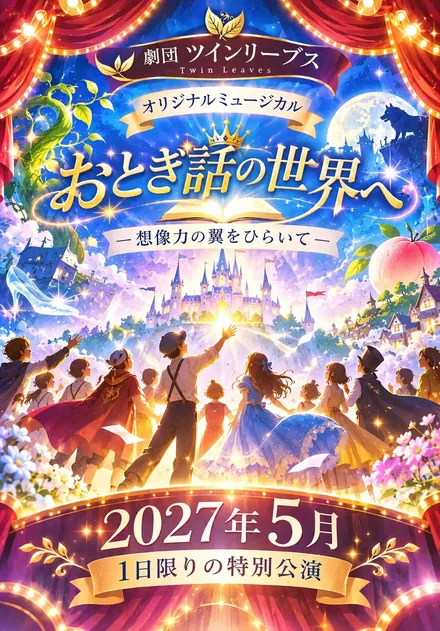
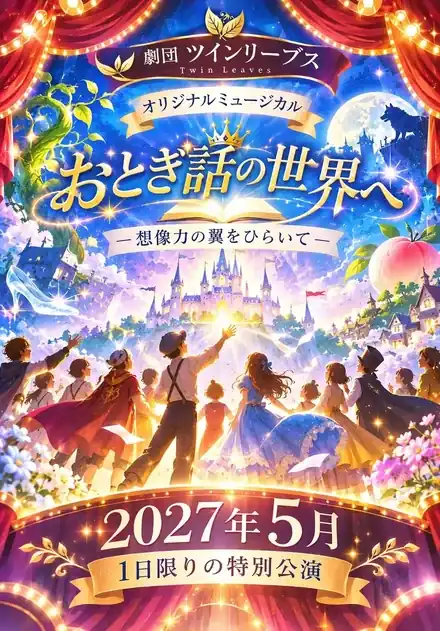
R34: ラウンド13クイックウィン S1〜S5＋#6 一覧チェックインをQR受付と統一（備考例に親子室／文字サイズ切替の高さ40px／大サイズで決定バーを縦積みにしゾーン名の欠けを解消／QR準備中は予約番号＋案内を先行表示／ヒーローWebPを51.6KBに圧縮／未割当ゾーン予約の一覧チェックインは席を詰めてから受付し、詰められない場合は受付せず手動指定へ誘導）

diff --git a/src/lib/cloudStore.tsx b/src/lib/cloudStore.tsx
@@ -19,8 +19,14 @@ import {
   type NewReservationInput,
   type Reservation,
 } from './logic'
-import { assignZoneSeats, manualAssignmentError, type ZoneId } from './zones'
+import {
+  assignZoneSeats,
+  manualAssignmentError,
+  planListCheckIn,
+  type ZoneId,
+} from './zones'
 import { createCloudApi, type CloudApi } from './cloud'
+import { isQrToken } from './qrToken'
 import { currentSiteUrl } from './share'
 import {
   StoreContext,
@@ -319,6 +325,72 @@ export function CloudStoreProvider({ children }: { children: ReactNode }) {
       )
     }
 
+    /**
+     * R34（ラウンド13・R13-1）: 受付一覧の「来場チェックイン」から未割当の
+     * ゾーン予約を受け付ける。QR 受付と揃え、席が決まるまで受付しない。
+     * トークンのある予約は QR と同じ staff_check_in の2段階（NEEDS_SEATS →
+     * 詰めて再送）を使い、トークンのない旧予約は staff_assign_seats で
+     * 詰めた席を確定してから来場にする。どちらも席を用意できなければ
+     * 例外にし、来場済みにはしない（理由と手動指定への誘導を伝える）。
+     */
+    const checkInUnassignedFromList = async (
+      target: Reservation,
+    ): Promise<void> => {
+      const cloudId = target.cloudId
+      if (!cloudId) throw new Error('予約が見つかりません')
+      const token = target.qrToken
+      if (isQrToken(token)) {
+        try {
+          let outcome = await api().staffCheckIn(staffPasscode(), token, null)
+          if (outcome.result === 'NEEDS_SEATS') {
+            outcome = await checkInAssigningSeats(token, outcome.reservation)
+          }
+          if (
+            outcome.result === 'OK' ||
+            outcome.result === 'ALREADY_CHECKED_IN'
+          ) {
+            await refreshAll()
+            return
+          }
+          if (outcome.result === 'CANCELLED') {
+            throw new Error('この予約はキャンセル済みのため、受付できません')
+          }
+          throw new Error('受付できませんでした。もう一度お試しください')
+        } catch (e) {
+          // 席を用意できなかった場合は、一覧向けの案内（手動指定への誘導）に差し替える
+          if (
+            e instanceof Error &&
+            e.message.includes('席を自動で割り当てできませんでした')
+          ) {
+            const plan = planListCheckIn(dataRef.current, target)
+            throw new Error(
+              plan.kind === 'blocked'
+                ? plan.reason
+                : '席を自動で割り当てできませんでした。カードの「席を指定する」から手動で席を選んでください',
+            )
+          }
+          // R7 の RPC が未適用の DB では、下の割当＋更新の代替経路に落とす
+          if (
+            !(e instanceof Error && e.message.includes('migration_sakura_r7'))
+          ) {
+            throw e
+          }
+        }
+      }
+      // トークンのない予約（QR の仕組みより前）: 詰めた席を確定してから来場にする
+      const plan = planListCheckIn(dataRef.current, target)
+      if (plan.kind === 'blocked') throw new Error(plan.reason)
+      if (plan.kind === 'assign') {
+        await api().staffAssignSeats(staffPasscode(), cloudId, plan.seatIds)
+      }
+      await api().staffUpdateReservation(staffPasscode(), cloudId, {
+        paid: target.paid,
+        checkedIn: true,
+        status: 'active',
+      })
+      await refreshAll()
+    }
+
     return {
       data,
       mode: 'cloud',
@@ -423,6 +495,13 @@ export function CloudStoreProvider({ children }: { children: ReactNode }) {
       setCheckedIn: async (reservationId, value) => {
         const target = dataRef.current.reservations.find((r) => r.id === reservationId)
         if (!target?.cloudId) throw new Error('予約が見つかりません')
+        // R34（ラウンド13・R13-1）: 未割当ゾーン予約の来場チェックインは
+        // QR 受付と揃える（席が決まるまで受付しない）。席のある予約・
+        // ゾーン外の予約・来場の取り消しは従来どおり
+        if (value && !target.cancelled && isUnassignedZoneBooking(target)) {
+          await checkInUnassignedFromList(target)
+          return
+        }
         await api().staffUpdateReservation(staffPasscode(), target.cloudId, {
           paid: target.paid,
           checkedIn: value,

diff --git a/src/lib/zones.test.ts b/src/lib/zones.test.ts
@@ -5,7 +5,15 @@ import {
   WHEELCHAIR_SEATS,
   seatById,
 } from '../data/seats'
-import { emptyData, setBlockedForSeats, type AppData } from './logic'
+import {
+  assignSeatsToReservation,
+  createReservation,
+  createZoneReservation,
+  emptyData,
+  setBlockedForSeats,
+  type AppData,
+  type Reservation,
+} from './logic'
 import {
   LOW_STOCK_REMAINING,
   ZONE_IDS,
@@ -13,6 +21,7 @@ import {
   assignZoneSeats,
   countAvailableInZone,
   describeSelection,
+  planListCheckIn,
   resolveZoneTap,
   summarizeSeatIds,
   totalAvailableSeats,
@@ -414,5 +423,86 @@ describe('describeSelection / summarizeSeatIds', () => {
     expect(summarizeSeatIds(['1F-7-12', '1F-8-12'])).toBe(
       '1階 7列 12番、1階 8列 12番',
     )
+  })
+})
+
+describe('planListCheckIn（一覧チェックインの席割当計画・R34）', () => {
+  const zoneBooking = (
+    data: AppData,
+    zone: ZoneId,
+    typeIds: string[],
+  ): Reservation =>
+    createZoneReservation(data, {
+      zone,
+      typeIds,
+      name: '検証 太郎',
+      phone: '09000000000',
+      note: '',
+    }).reservation
+
+  it('未割当のゾーン予約（空きあり）→ 人数分の席を詰める assign', () => {
+    const data = emptyData()
+    const res = zoneBooking(data, 'B', ['adult', 'adult'])
+    const plan = planListCheckIn(data, res)
+    expect(plan.kind).toBe('assign')
+    if (plan.kind === 'assign') {
+      expect(plan.seatIds).toHaveLength(2)
+      expect(
+        plan.seatIds.every((id) => zoneOfSeat(seatById(id)) === 'B'),
+      ).toBe(true)
+    }
+  })
+
+  it('未割当のゾーン予約（ゾーン満席）→ blocked で、手動指定への誘導を含む', () => {
+    const data = blockSeats(emptyData(), [...ZONE_SEAT_IDS.I])
+    const res = zoneBooking(data, 'I', ['adult', 'adult'])
+    const plan = planListCheckIn(data, res)
+    expect(plan.kind).toBe('blocked')
+    if (plan.kind === 'blocked') {
+      expect(plan.reason).toContain('受付はしていません')
+      expect(plan.reason).toContain('席を指定する')
+    }
+  })
+
+  it('未割当のゾーン予約（残席が人数未満）→ blocked', () => {
+    // ゾーンIは14席。1席だけ残して2名は割り当てできない
+    const free = ZONE_SEAT_IDS.I[0]
+    const data = blockSeats(
+      emptyData(),
+      ZONE_SEAT_IDS.I.filter((id) => id !== free),
+    )
+    const res = zoneBooking(data, 'I', ['adult', 'adult'])
+    expect(planListCheckIn(data, res).kind).toBe('blocked')
+  })
+
+  it('席が割り当て済みのゾーン予約 → plain（従来どおり）', () => {
+    const created = createZoneReservation(emptyData(), {
+      zone: 'B',
+      typeIds: ['adult', 'adult'],
+      name: '検証 太郎',
+      phone: '09000000000',
+      note: '',
+    })
+    const base = created.data
+    const res = created.reservation
+    const assignment = assignZoneSeats(base, 'B', 2)
+    expect(assignment).not.toBeNull()
+    const withSeats = assignSeatsToReservation(base, res.id, assignment!.seatIds)
+    const seated = withSeats.reservations.find((r) => r.id === res.id)!
+    expect(seated.seatIds).toHaveLength(2)
+    expect(planListCheckIn(withSeats, seated)).toEqual({ kind: 'plain' })
+  })
+
+  it('席指定の通常予約 → plain', () => {
+    const { reservation } = createReservation(emptyData(), {
+      seats: [{ seatId: '1F-5-12', typeId: 'adult' }],
+      name: '検証 太郎',
+      phone: '09000000000',
+      note: '',
+      source: 'online',
+    })
+    expect(planListCheckIn(emptyData(), reservation)).toEqual({
+      kind: 'plain',
+    })
   })
 })

diff --git a/src/lib/zones.ts b/src/lib/zones.ts
@@ -40,6 +40,7 @@ import {
 } from '../data/seats'
 import {
   formatSeatList,
+  isUnassignedZoneBooking,
   isZoneBooking,
   seatStatus,
   type AppData,
@@ -553,6 +554,45 @@ export function manualAssignmentError(
     }
   }
   return null
+}
+
+/* ---------------- 一覧チェックインの席割当計画（R34・ラウンド13 R13-1） ---------------- */
+
+/**
+ * 受付一覧の「来場チェックイン」が、対象の予約をどう扱うべきかの判定。
+ * QR 受付（R17）は未割当のゾーン予約を「席が決まるまで受付しない」のに、
+ * 一覧のトグルは席なしのまま来場済みにできてしまい、非対称だった。
+ * 両ストア（ローカル/クラウド）はこの計画に従って動きを揃える:
+ * - plain: 従来どおりそのまま来場にする（席あり・ゾーン外の予約）
+ * - assign: 詰めた席を割り当ててから来場にする（未割当のゾーン予約）
+ * - blocked: 席を用意できないため来場にしない。reason はスタッフ向けに
+ *   「受付していないこと」と手動指定（カードの「席を指定する」）への
+ *   誘導まで含めた文面
+ * キャンセル済みの予約は対象外（呼び出し側が先に除外する）。
+ */
+export type ListCheckInPlan =
+  | { kind: 'plain' }
+  | { kind: 'assign'; seatIds: string[] }
+  | { kind: 'blocked'; reason: string }
+
+export function planListCheckIn(
+  data: AppData,
+  reservation: Reservation,
+): ListCheckInPlan {
+  if (!isUnassignedZoneBooking(reservation)) return { kind: 'plain' }
+  const assignment = assignZoneSeats(
+    data,
+    reservation.zone as ZoneId,
+    reservation.items.length,
+  )
+  if (!assignment) {
+    return {
+      kind: 'blocked',
+      reason:
+        '席を自動で割り当てできませんでした（このゾーンに割り当てられる席がありません）。受付はしていません。カードの「席を指定する」から手動で席を選んでください',
+    }
+  }
+  return { kind: 'assign', seatIds: assignment.seatIds }
 }
 
 /* ---------------- 予約の座席表示（R12） ---------------- */

diff --git a/src/index.css b/src/index.css
@@ -4403,7 +4403,9 @@ button.sseat-cell:active {
   font-weight: 700;
   padding: 4px 16px;
   border-radius: 999px;
-  min-height: 30px;
+  /* R34・R13-5: この切り替えを最も必要とする人（低視力・高齢）のタップ
+     目標が最小級だったため、高さを 40px 以上に確保する */
+  min-height: 40px;
 }
 
 .textsize-seg button[aria-pressed='true'] {
@@ -4472,6 +4474,27 @@ button.sseat-cell:active {
 .app-shell[data-textsize='large'] .zdb-zone { font-size: 17.5px; }
 .app-shell[data-textsize='large'] .zdb-meta { font-size: 14px; }
 .app-shell[data-textsize='large'] .zdb-btn { font-size: 16.5px; }
+/* R34・R13-2: 「大」では横並びだと情報側が潰れてゾーン名の塊が途中で
+   切れた。狭幅（380px以下）と同じくバーを縦積みにし、ゾーン名を
+   削らずに読める幅を確保する（座席表の幾何には触れない） */
+.app-shell[data-textsize='large'] .zone-decision-bar {
+  flex-direction: column;
+  align-items: stretch;
+  gap: 8px;
+}
+.app-shell[data-textsize='large'] .zdb-actions {
+  display: flex;
+}
+.app-shell[data-textsize='large'] .zdb-btn {
+  flex: 1;
+}
+/* 縦積みで高くなったバーに、ページ末尾と案内が隠れないよう追随させる */
+.app-shell[data-textsize='large'] .book-flow.has-floating-bar {
+  padding-bottom: 208px;
+}
+.app-shell[data-textsize='large'] .zone-bottom-notice.has-bar {
+  bottom: calc(196px + env(safe-area-inset-bottom, 0px));
+}
 .app-shell[data-textsize='large'] .zone-bottom-notice { font-size: 16px; }
 .app-shell[data-textsize='large'] .detail-list dt { font-size: 16px; }
 .app-shell[data-textsize='large'] .detail-total { font-size: 19.5px; }

diff --git a/src/lib/store.tsx b/src/lib/store.tsx
@@ -38,6 +38,7 @@ import {
 import {
   assignZoneSeats,
   manualAssignmentError,
+  planListCheckIn,
   zoneAvailability,
   type ZoneId,
 } from './zones'
@@ -393,6 +394,25 @@ function LocalStoreProvider({ children }: { children: ReactNode }) {
         return result
       },
       setCheckedIn: async (reservationId, value) => {
+        // R34（ラウンド13・R13-1）: 一覧からの来場チェックインも QR 受付と
+        // 揃え、未割当のゾーン予約は席を詰めてから来場にする。席を用意
+        // できない場合は例外にして、来場済みにはしない（理由はトーストで
+        // スタッフに伝わり、手動指定へ誘導する）
+        const target = dataRef.current.reservations.find((r) => r.id === reservationId)
+        if (value && target && !target.cancelled) {
+          const plan = planListCheckIn(dataRef.current, target)
+          if (plan.kind === 'blocked') throw new Error(plan.reason)
+          if (plan.kind === 'assign') {
+            mutate((prev) =>
+              setCheckedIn(
+                assignSeatsToReservation(prev, reservationId, plan.seatIds),
+                reservationId,
+                true,
+              ),
+            )
+            return
+          }
+        }
         mutate((prev) => setCheckedIn(prev, reservationId, value))
       },
       checkInByToken: async (token) => {

diff --git a/src/components/ReservationQr.tsx b/src/components/ReservationQr.tsx
@@ -82,7 +82,17 @@ export default function ReservationQr({
           height={168}
         />
       ) : (
-        <p className="muted small reservation-qr-loading">QRコードを準備中…</p>
+        /* R34・R13-3: 生成待ちの間も予約番号を先に大きく見せ、「数秒で
+           表示される」ことを伝える（番号さえ分かれば受付できるため、
+           素っ気ない「準備中…」だけを見せ続けない） */
+        <div className="reservation-qr-loading">
+          <p className="qr-code-fallback">
+            予約番号 <strong>{code}</strong>
+          </p>
+          <p className="muted small">
+            QRコードを準備中です（数秒で表示されます。そのままお待ちください）
+          </p>
+        </div>
       )}
       <p className="qr-caption">
         {checkedInCaption ?? '当日、受付でこのQRコードを見せてください'}

diff --git a/src/components/AudienceBook.tsx b/src/components/AudienceBook.tsx
@@ -876,7 +876,7 @@ export default function AudienceBook({
                 value={note}
                 onChange={(e) => setNote(e.target.value)}
                 rows={3}
-                placeholder="例：車椅子席を利用します、車椅子席の付き添いです、など"
+                placeholder="例：車椅子席を利用します、親子室を利用します、車椅子席の付き添いです、など"
               />
             </label>
             {/* 個人情報の取り扱い（R28）: 名前・電話の入力欄のすぐ近くに置く。
